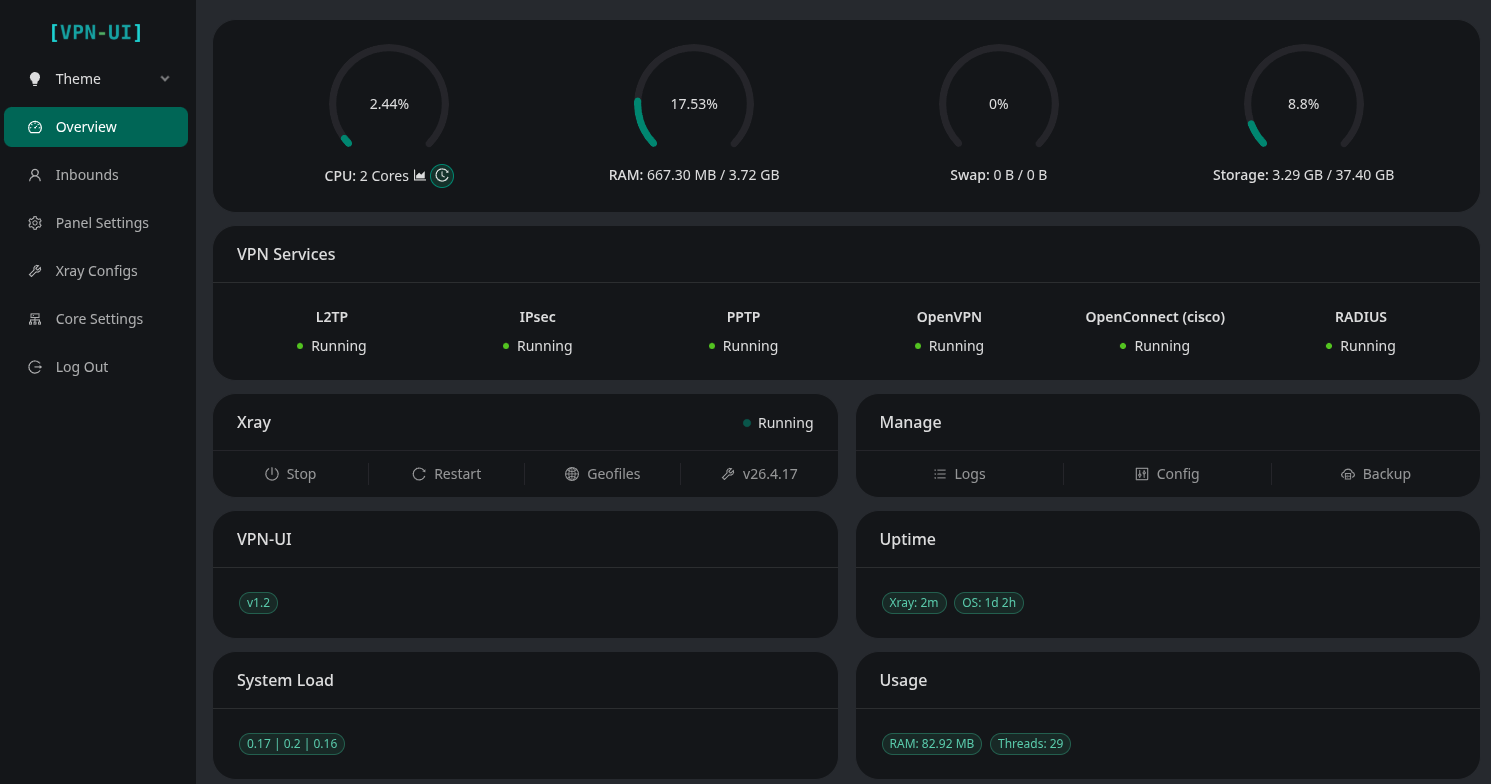
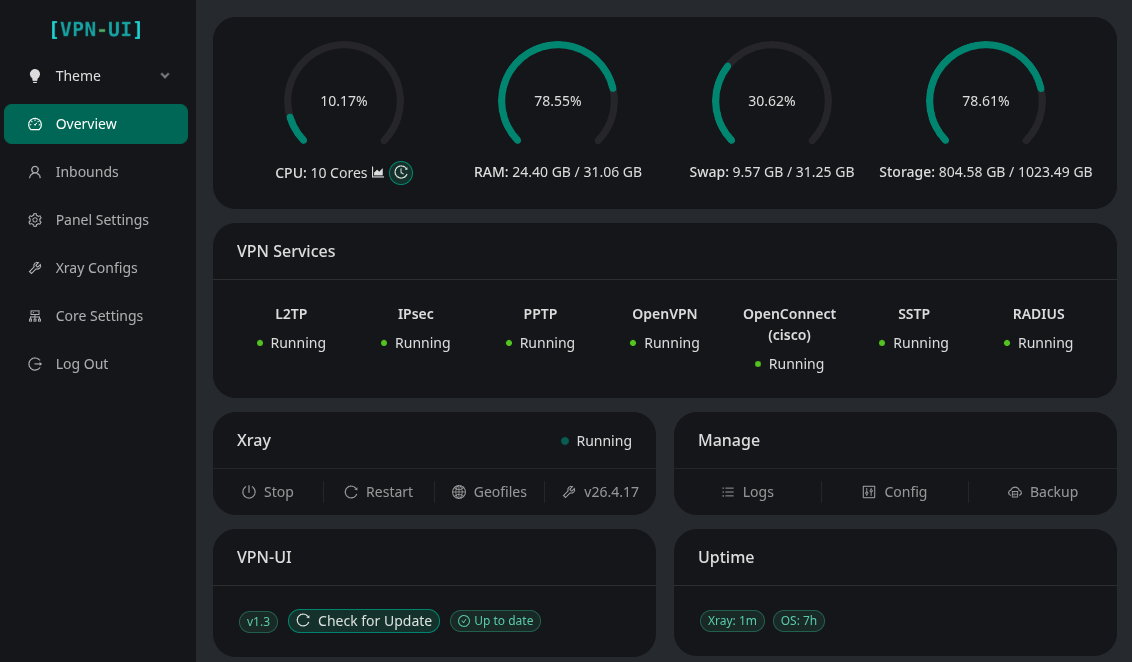
docs: add SSTP to all READMEs (protocol list, data-plane flowchart, E2E --tests) + refresh screenshots

diff --git a/README.md b/README.md
@@ -13,6 +13,7 @@ This project is an enhanced version of the **[3X-UI](https://github.com/MHSanaei
 - L2TP/IPsec
 - OpenVPN
 - OpenConnect (cisco)
+- SSTP
 
 ## New Features
 
@@ -74,7 +75,7 @@ sudo /opt/vpn-ui/vpn-ui-amd64 --uninstall
 
 ```mermaid
 flowchart TB
-  Client["VPN Client<br/>(L2TP/IPsec · PPTP · OpenVPN · OpenConnect)"]
+  Client["VPN Client<br/>(L2TP/IPsec · PPTP · OpenVPN · OpenConnect · SSTP)"]
 
   subgraph PANEL["vpn-ui panel — root process"]
     PROC["procmgr<br/>supervises the daemons"]
@@ -85,7 +86,7 @@ flowchart TB
   end
 
   subgraph DAEMON["Bundled VPN daemons (panel children)"]
-    D["xl2tpd + libreswan · pptpd · openvpn · ocserv<br/>(pppd for L2TP/PPTP)"]
+    D["xl2tpd + libreswan · pptpd · openvpn · ocserv · accel-ppp<br/>(pppd for L2TP/PPTP · accel-ppp for SSTP)"]
   end
 
   subgraph KERNEL["Linux kernel data plane"]
@@ -152,6 +153,7 @@ A complete **E2E** test written in Python has been designed for this project ins
 | `l2tp` | connect variants + checks + peer reachability (L2TP/IPsec) |
 | `pptp` | connect variants + checks + peer reachability (PPTP) |
 | `openconnect` | connect variants + checks + peer reachability + same-NAT user-limit (OpenConnect/ocserv) |
+| `sstp` | connect variants + checks + peer reachability (SSTP/accel-ppp, PPP-over-TLS) |
 | `bulk-ops` | bulk client add/sub/enable/disable + TXT/PDF export via API |
 | `backup-restore` | DB export + import round-trip |
 | `warp-socks` | Cloudflare warp-cli SOCKS install + egress |

diff --git a/README_AR.md b/README_AR.md
@@ -13,6 +13,7 @@
 - L2TP/IPsec
 - OpenVPN
 - OpenConnect (cisco)
+- SSTP
 
 ## الميزات الجديدة
 
@@ -74,7 +75,7 @@ sudo /opt/vpn-ui/vpn-ui-amd64 --uninstall
 
 ```mermaid
 flowchart TB
-  Client["VPN Client<br/>(L2TP/IPsec · PPTP · OpenVPN · OpenConnect)"]
+  Client["VPN Client<br/>(L2TP/IPsec · PPTP · OpenVPN · OpenConnect · SSTP)"]
 
   subgraph PANEL["vpn-ui panel — root process"]
     PROC["procmgr<br/>supervises the daemons"]
@@ -85,7 +86,7 @@ flowchart TB
   end
 
   subgraph DAEMON["Bundled VPN daemons (panel children)"]
-    D["xl2tpd + libreswan · pptpd · openvpn · ocserv<br/>(pppd for L2TP/PPTP)"]
+    D["xl2tpd + libreswan · pptpd · openvpn · ocserv · accel-ppp<br/>(pppd for L2TP/PPTP · accel-ppp for SSTP)"]
   end
 
   subgraph KERNEL["Linux kernel data plane"]
@@ -152,6 +153,7 @@ git clone https://github.com/Sir-MmD/vpn-ui.git && cd vpn-ui
 | `l2tp` | connect variants + checks + peer reachability (L2TP/IPsec) |
 | `pptp` | connect variants + checks + peer reachability (PPTP) |
 | `openconnect` | connect variants + checks + peer reachability + same-NAT user-limit (OpenConnect/ocserv) |
+| `sstp` | connect variants + checks + peer reachability (SSTP/accel-ppp, PPP-over-TLS) |
 | `bulk-ops` | bulk client add/sub/enable/disable + TXT/PDF export via API |
 | `backup-restore` | DB export + import round-trip |
 | `warp-socks` | Cloudflare warp-cli SOCKS install + egress |

diff --git a/README_ES.md b/README_ES.md
@@ -13,6 +13,7 @@ Este proyecto es una versión mejorada del panel **[3X-UI](https://github.com/MH
 - L2TP/IPsec
 - OpenVPN
 - OpenConnect (cisco)
+- SSTP
 
 ## Nuevas funcionalidades
 
@@ -74,7 +75,7 @@ sudo /opt/vpn-ui/vpn-ui-amd64 --uninstall
 
 ```mermaid
 flowchart TB
-  Client["VPN Client<br/>(L2TP/IPsec · PPTP · OpenVPN · OpenConnect)"]
+  Client["VPN Client<br/>(L2TP/IPsec · PPTP · OpenVPN · OpenConnect · SSTP)"]
 
   subgraph PANEL["vpn-ui panel — root process"]
     PROC["procmgr<br/>supervises the daemons"]
@@ -85,7 +86,7 @@ flowchart TB
   end
 
   subgraph DAEMON["Bundled VPN daemons (panel children)"]
-    D["xl2tpd + libreswan · pptpd · openvpn · ocserv<br/>(pppd for L2TP/PPTP)"]
+    D["xl2tpd + libreswan · pptpd · openvpn · ocserv · accel-ppp<br/>(pppd for L2TP/PPTP · accel-ppp for SSTP)"]
   end
 
   subgraph KERNEL["Linux kernel data plane"]
@@ -152,6 +153,7 @@ Se ha diseñado para este proyecto una prueba **E2E** completa en Python dentro 
 | `l2tp` | connect variants + checks + peer reachability (L2TP/IPsec) |
 | `pptp` | connect variants + checks + peer reachability (PPTP) |
 | `openconnect` | connect variants + checks + peer reachability + same-NAT user-limit (OpenConnect/ocserv) |
+| `sstp` | connect variants + checks + peer reachability (SSTP/accel-ppp, PPP-over-TLS) |
 | `bulk-ops` | bulk client add/sub/enable/disable + TXT/PDF export via API |
 | `backup-restore` | DB export + import round-trip |
 | `warp-socks` | Cloudflare warp-cli SOCKS install + egress |

diff --git a/README_FA.md b/README_FA.md
@@ -13,6 +13,7 @@
 - L2TP/IPsec
 - OpenVPN
 - OpenConnect (cisco)
+- SSTP
 
 ## امکانات جدید
 
@@ -75,7 +76,7 @@ sudo /opt/vpn-ui/vpn-ui-amd64 --uninstall
 
 ```mermaid
 flowchart TB
-  Client["VPN Client<br/>(L2TP/IPsec · PPTP · OpenVPN · OpenConnect)"]
+  Client["VPN Client<br/>(L2TP/IPsec · PPTP · OpenVPN · OpenConnect · SSTP)"]
 
   subgraph PANEL["vpn-ui panel — root process"]
     PROC["procmgr<br/>supervises the daemons"]
@@ -86,7 +87,7 @@ flowchart TB
   end
 
   subgraph DAEMON["Bundled VPN daemons (panel children)"]
-    D["xl2tpd + libreswan · pptpd · openvpn · ocserv<br/>(pppd for L2TP/PPTP)"]
+    D["xl2tpd + libreswan · pptpd · openvpn · ocserv · accel-ppp<br/>(pppd for L2TP/PPTP · accel-ppp for SSTP)"]
   end
 
   subgraph KERNEL["Linux kernel data plane"]
@@ -153,6 +154,7 @@ git clone https://github.com/Sir-MmD/vpn-ui.git && cd vpn-ui
 | `l2tp` | connect variants + checks + peer reachability (L2TP/IPsec) |
 | `pptp` | connect variants + checks + peer reachability (PPTP) |
 | `openconnect` | connect variants + checks + peer reachability + same-NAT user-limit (OpenConnect/ocserv) |
+| `sstp` | connect variants + checks + peer reachability (SSTP/accel-ppp, PPP-over-TLS) |
 | `bulk-ops` | bulk client add/sub/enable/disable + TXT/PDF export via API |
 | `backup-restore` | DB export + import round-trip |
 | `warp-socks` | Cloudflare warp-cli SOCKS install + egress |

diff --git a/README_RU.md b/README_RU.md
@@ -13,6 +13,7 @@
 - L2TP/IPsec
 - OpenVPN
 - OpenConnect (cisco)
+- SSTP
 
 ## Новые возможности
 
@@ -74,7 +75,7 @@ sudo /opt/vpn-ui/vpn-ui-amd64 --uninstall
 
 ```mermaid
 flowchart TB
-  Client["VPN Client<br/>(L2TP/IPsec · PPTP · OpenVPN · OpenConnect)"]
+  Client["VPN Client<br/>(L2TP/IPsec · PPTP · OpenVPN · OpenConnect · SSTP)"]
 
   subgraph PANEL["vpn-ui panel — root process"]
     PROC["procmgr<br/>supervises the daemons"]
@@ -85,7 +86,7 @@ flowchart TB
   end
 
   subgraph DAEMON["Bundled VPN daemons (panel children)"]
-    D["xl2tpd + libreswan · pptpd · openvpn · ocserv<br/>(pppd for L2TP/PPTP)"]
+    D["xl2tpd + libreswan · pptpd · openvpn · ocserv · accel-ppp<br/>(pppd for L2TP/PPTP · accel-ppp for SSTP)"]
   end
 
   subgraph KERNEL["Linux kernel data plane"]
@@ -152,6 +153,7 @@ git clone https://github.com/Sir-MmD/vpn-ui.git && cd vpn-ui
 | `l2tp` | connect variants + checks + peer reachability (L2TP/IPsec) |
 | `pptp` | connect variants + checks + peer reachability (PPTP) |
 | `openconnect` | connect variants + checks + peer reachability + same-NAT user-limit (OpenConnect/ocserv) |
+| `sstp` | connect variants + checks + peer reachability (SSTP/accel-ppp, PPP-over-TLS) |
 | `bulk-ops` | bulk client add/sub/enable/disable + TXT/PDF export via API |
 | `backup-restore` | DB export + import round-trip |
 | `warp-socks` | Cloudflare warp-cli SOCKS install + egress |

diff --git a/README_TR.md b/README_TR.md
@@ -13,6 +13,7 @@ Bu proje, **[3X-UI](https://github.com/MHSanaei/3x-ui)** panelinin (2.9.3 sürü
 - L2TP/IPsec
 - OpenVPN
 - OpenConnect (cisco)
+- SSTP
 
 ## Yeni Özellikler
 
@@ -74,7 +75,7 @@ sudo /opt/vpn-ui/vpn-ui-amd64 --uninstall
 
 ```mermaid
 flowchart TB
-  Client["VPN Client<br/>(L2TP/IPsec · PPTP · OpenVPN · OpenConnect)"]
+  Client["VPN Client<br/>(L2TP/IPsec · PPTP · OpenVPN · OpenConnect · SSTP)"]
 
   subgraph PANEL["vpn-ui panel — root process"]
     PROC["procmgr<br/>supervises the daemons"]
@@ -85,7 +86,7 @@ flowchart TB
   end
 
   subgraph DAEMON["Bundled VPN daemons (panel children)"]
-    D["xl2tpd + libreswan · pptpd · openvpn · ocserv<br/>(pppd for L2TP/PPTP)"]
+    D["xl2tpd + libreswan · pptpd · openvpn · ocserv · accel-ppp<br/>(pppd for L2TP/PPTP · accel-ppp for SSTP)"]
   end
 
   subgraph KERNEL["Linux kernel data plane"]
@@ -152,6 +153,7 @@ Bu proje için `test_unit` klasörü içinde Python ile tam bir **E2E** testi ta
 | `l2tp` | connect variants + checks + peer reachability (L2TP/IPsec) |
 | `pptp` | connect variants + checks + peer reachability (PPTP) |
 | `openconnect` | connect variants + checks + peer reachability + same-NAT user-limit (OpenConnect/ocserv) |
+| `sstp` | connect variants + checks + peer reachability (SSTP/accel-ppp, PPP-over-TLS) |
 | `bulk-ops` | bulk client add/sub/enable/disable + TXT/PDF export via API |
 | `backup-restore` | DB export + import round-trip |
 | `warp-socks` | Cloudflare warp-cli SOCKS install + egress |

diff --git a/README_ZH.md b/README_ZH.md
@@ -13,6 +13,7 @@
 - L2TP/IPsec
 - OpenVPN
 - OpenConnect (cisco)
+- SSTP
 
 ## 新增功能
 
@@ -74,7 +75,7 @@ sudo /opt/vpn-ui/vpn-ui-amd64 --uninstall
 
 ```mermaid
 flowchart TB
-  Client["VPN Client<br/>(L2TP/IPsec · PPTP · OpenVPN · OpenConnect)"]
+  Client["VPN Client<br/>(L2TP/IPsec · PPTP · OpenVPN · OpenConnect · SSTP)"]
 
   subgraph PANEL["vpn-ui panel — root process"]
     PROC["procmgr<br/>supervises the daemons"]
@@ -85,7 +86,7 @@ flowchart TB
   end
 
   subgraph DAEMON["Bundled VPN daemons (panel children)"]
-    D["xl2tpd + libreswan · pptpd · openvpn · ocserv<br/>(pppd for L2TP/PPTP)"]
+    D["xl2tpd + libreswan · pptpd · openvpn · ocserv · accel-ppp<br/>(pppd for L2TP/PPTP · accel-ppp for SSTP)"]
   end
 
   subgraph KERNEL["Linux kernel data plane"]
@@ -152,6 +153,7 @@ git clone https://github.com/Sir-MmD/vpn-ui.git && cd vpn-ui
 | `l2tp` | connect variants + checks + peer reachability (L2TP/IPsec) |
 | `pptp` | connect variants + checks + peer reachability (PPTP) |
 | `openconnect` | connect variants + checks + peer reachability + same-NAT user-limit (OpenConnect/ocserv) |
+| `sstp` | connect variants + checks + peer reachability (SSTP/accel-ppp, PPP-over-TLS) |
 | `bulk-ops` | bulk client add/sub/enable/disable + TXT/PDF export via API |
 | `backup-restore` | DB export + import round-trip |
 | `warp-socks` | Cloudflare warp-cli SOCKS install + egress |